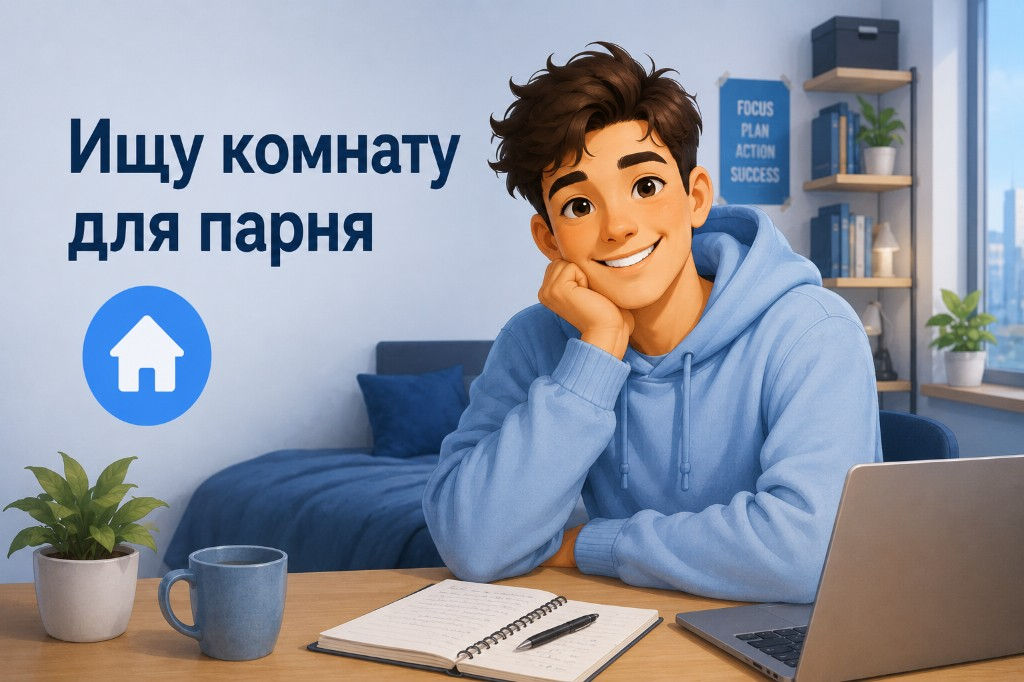
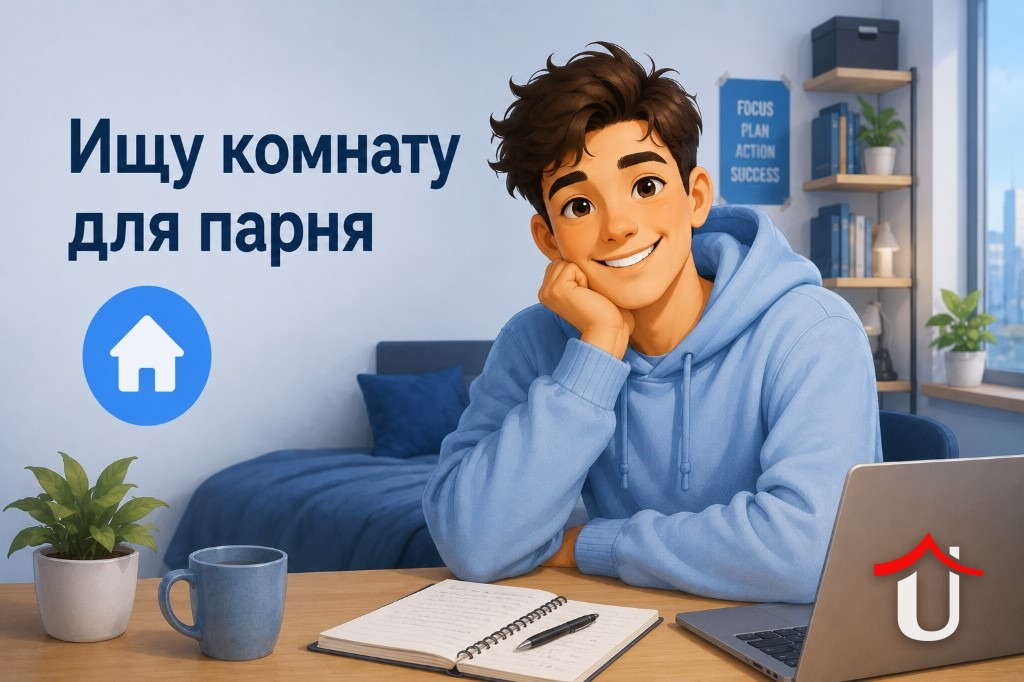
wTERMARK

Changed region(s): [[0.8438, 0.7698, 0.9688, 0.9545]]

diff --git a/assets/telegram-feed.js b/assets/telegram-feed.js
@@ -14,14 +14,15 @@ const PERIOD_ALL_TIME = 0;
 const PERIOD_OPTION_VALUES = [30, 90, PERIOD_ALL_TIME];
 const FILTER_STORAGE_KEY = 'uydosh_tg_feed_filters';
 const FILTER_COLLAPSED_KEY = 'uydosh_tg_filters_collapsed';
+// Scrolling down this far auto-collapses the filters — and skips straight
+// to the folded, chevron-only state (see `.filters--folded`) instead of
+// pausing at the compact icon ribbon in between, so listings underneath
+// stop being covered as soon as possible. A *manual* collapse (chevron tap)
+// intentionally keeps the full compact ribbon instead — see the toggle
+// click handler below — since that's a deliberate choice to keep seeing
+// the filter icons, not scroll-driven decluttering.
 const FILTER_SCROLL_COLLAPSE_PX = 120;
 const FILTER_SCROLL_EXPAND_PX = 24;
-// Once already collapsed to the compact icon ribbon, scrolling further down
-// still leaves that full-width pill sitting over the listings underneath it.
-// Past this deeper threshold it folds away entirely except for the chevron
-// button (see `.filters--folded`); scrolling back up even a bit un-folds it.
-const FILTER_SCROLL_FOLD_PX = 160;
-const FILTER_SCROLL_UNFOLD_PX = 100;
 const SCROLL_TOP_HIDE_PX = 72;
 
 const gridEl = document.getElementById('grid');
@@ -74,6 +75,7 @@ function collapseFiltersFromScroll() {
   filtersCollapsedByScroll = true;
   persistFiltersCollapsed();
   setFiltersCollapsedVisual(true);
+  foldFiltersFromScroll();
 }
 
 function expandFiltersFromScroll() {
@@ -142,12 +144,6 @@ function handleFeedScrollForFilters() {
     }
     if (filtersCollapsedByScroll && delta <= FILTER_SCROLL_EXPAND_PX) {
       expandFiltersFromScroll();
-      return;
-    }
-    if (!filtersFolded && delta >= FILTER_SCROLL_FOLD_PX) {
-      foldFiltersFromScroll();
-    } else if (filtersFolded && delta <= FILTER_SCROLL_UNFOLD_PX) {
-      unfoldFilters();
     }
   });
 }

diff --git a/telegram/index.html b/telegram/index.html
@@ -102,6 +102,6 @@
     <script src="../assets/uydosh-badges.js?v=20260703-67" defer></script>
     <script src="../assets/uydosh-mini-app.js?v=20260707-106" defer></script>
     <script src="../assets/telegram-feed-map.js?v=20260707-68" defer></script>
-    <script src="../assets/telegram-feed.js?v=20260708-108" defer></script>
+    <script src="../assets/telegram-feed.js?v=20260708-109" defer></script>
   </body>
 </html>

diff --git a/scripts/watermark-generic-images.py b/scripts/watermark-generic-images.py
@@ -1,0 +1,138 @@
+#!/usr/bin/env python3
+"""Stamps the UyDosh logo mark (the red roof + white "U" chimney glyph, no
+background pill, no wordmark) onto the generic "no photo" placeholder
+illustrations used by the Telegram Mini App, so they read as official UyDosh
+artwork rather than a random stock photo.
+
+Requires the `rsvg-convert` binary (brew install librsvg) to rasterize the
+vector logo at high resolution.
+
+Usage:
+    python3 scripts/watermark-generic-images.py
+
+Regenerates the four images in place:
+    images/no-photo-room-needed-male.jpg
+    images/no-photo-room-needed-female.jpg
+    images/no-photo-roommate-needed-male.jpg
+    images/no-photo-roommate-needed-female.jpg
+"""
+
+import subprocess
+import tempfile
+from pathlib import Path
+
+from PIL import Image, ImageFilter
+
+ROOT = Path(__file__).resolve().parent.parent
+IMAGES_DIR = ROOT / "images"
+LOGO_SVG = ROOT / "images" / "uydosh-logo.svg"
+
+TARGETS = [
+    ("no-photo-room-needed-male.jpg", "white"),
+    ("no-photo-room-needed-female.jpg", "black"),
+    ("no-photo-roommate-needed-male.jpg", "white"),
+    ("no-photo-roommate-needed-female.jpg", "black"),
+]
+
+LOGO_OPACITY = 0.88
+LOGO_HEIGHT_RATIO = 0.16  # logo height as a fraction of the photo height
+MARGIN_RATIO = 0.035  # margin from the edges as a fraction of photo height
+
+SHADOW_BLUR = 6
+SHADOW_ALPHA = 0.55
+SHADOW_OFFSET = (0, 3)
+
+
+def render_logo(render_px: int, u_color: str = "white") -> Image.Image:
+    """Rasterizes the vector logo (transparent bg) at a large size, then
+    crops to its opaque bounding box so no extra padding is baked in.
+
+    `u_color` overrides the fill of the "U" glyph (the `.fil1` class in the
+    source SVG) while the roof (`.fil2`, red) is left untouched.
+    """
+
+    svg_source = LOGO_SVG.read_text().replace(
+        ".fil1 {fill:white;", f".fil1 {{fill:{u_color};"
+    )
+
+    with tempfile.NamedTemporaryFile(
+        suffix=".svg", mode="w"
+    ) as tmp_svg, tempfile.NamedTemporaryFile(suffix=".png") as tmp_png:
+        tmp_svg.write(svg_source)
+        tmp_svg.flush()
+
+        subprocess.run(
+            [
+                "rsvg-convert",
+                "-w",
+                str(render_px),
+                "-h",
+                str(render_px),
+                "-o",
+                tmp_png.name,
+                tmp_svg.name,
+            ],
+            check=True,
+        )
+        logo = Image.open(tmp_png.name).convert("RGBA")
+        logo.load()
+
+    return logo.crop(logo.getbbox())
+
+
+def with_shadow(logo: Image.Image) -> Image.Image:
+    """Adds a soft dark drop shadow behind the glyph so the white "U" stays
+    legible on light backgrounds and the red roof pops on dark ones."""
+
+    pad = SHADOW_BLUR * 3
+    canvas = Image.new(
+        "RGBA", (logo.width + pad * 2, logo.height + pad * 2), (0, 0, 0, 0)
+    )
+
+    shadow_alpha = logo.split()[3].point(lambda a: int(a * SHADOW_ALPHA))
+    shadow_shape = Image.new("RGBA", logo.size, (0, 0, 0, 255))
+    shadow_shape.putalpha(shadow_alpha)
+
+    shadow_layer = Image.new("RGBA", canvas.size, (0, 0, 0, 0))
+    shadow_layer.alpha_composite(
+        shadow_shape, (pad + SHADOW_OFFSET[0], pad + SHADOW_OFFSET[1])
+    )
+    shadow_layer = shadow_layer.filter(ImageFilter.GaussianBlur(SHADOW_BLUR))
+
+    canvas.alpha_composite(shadow_layer)
+    canvas.alpha_composite(logo, (pad, pad))
+    return canvas
+
+
+def stamp(image_path: Path, base_logo: Image.Image) -> None:
+    photo = Image.open(image_path).convert("RGBA")
+
+    target_h = int(photo.height * LOGO_HEIGHT_RATIO)
+    scale = target_h / base_logo.height
+    logo = base_logo.resize(
+        (max(1, round(base_logo.width * scale)), target_h), Image.LANCZOS
+    )
+    watermark = with_shadow(logo)
+
+    scaled_alpha = watermark.split()[3].point(lambda a: int(a * LOGO_OPACITY))
+    watermark.putalpha(scaled_alpha)
+
+    margin = int(photo.height * MARGIN_RATIO)
+    x = photo.width - watermark.width - margin
+    y = photo.height - watermark.height - margin
+
+    photo.alpha_composite(watermark, (x, y))
+    photo.convert("RGB").save(image_path, quality=92)
+    print(f"watermarked {image_path.relative_to(ROOT)}")
+
+
+def main() -> None:
+    logos_by_color = {}
+    for name, u_color in TARGETS:
+        if u_color not in logos_by_color:
+            logos_by_color[u_color] = render_logo(render_px=1200, u_color=u_color)
+        stamp(IMAGES_DIR / name, logos_by_color[u_color])
+
+
+if __name__ == "__main__":
+    main()
